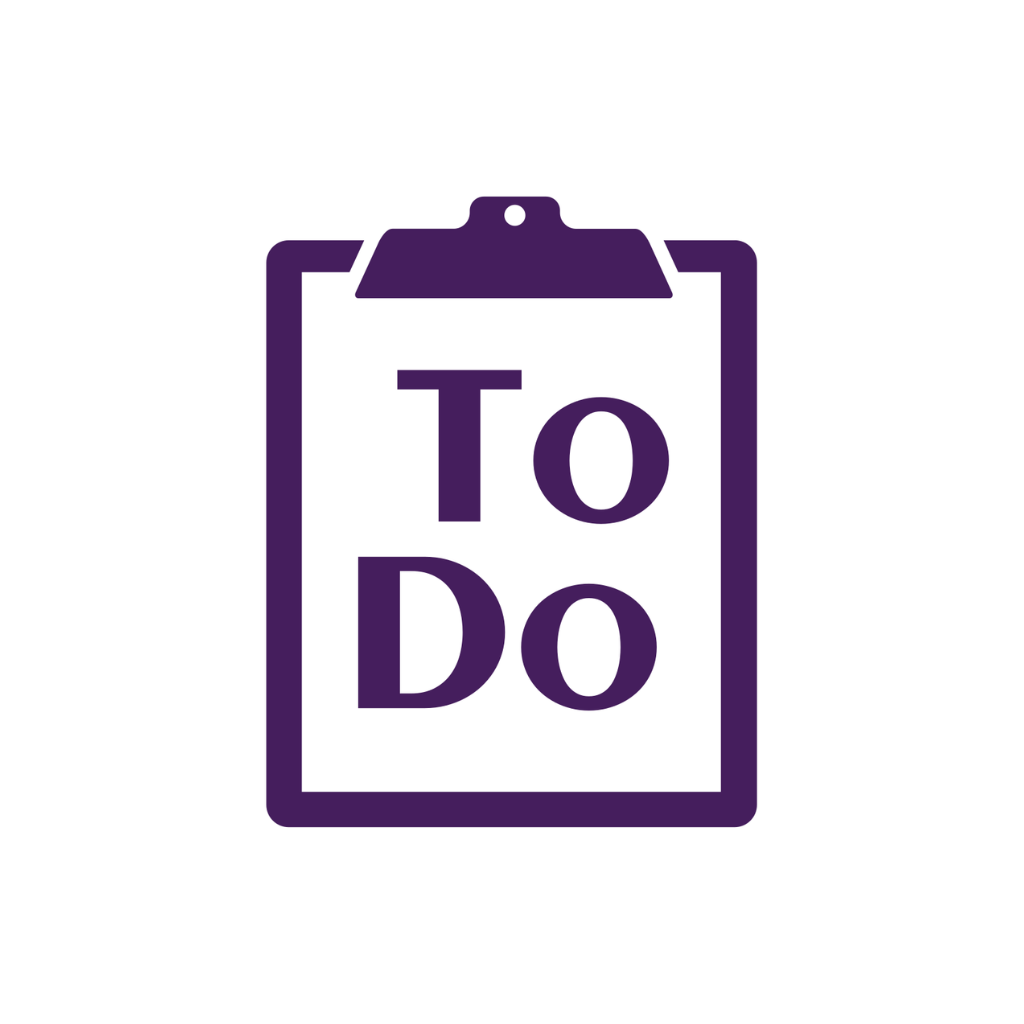
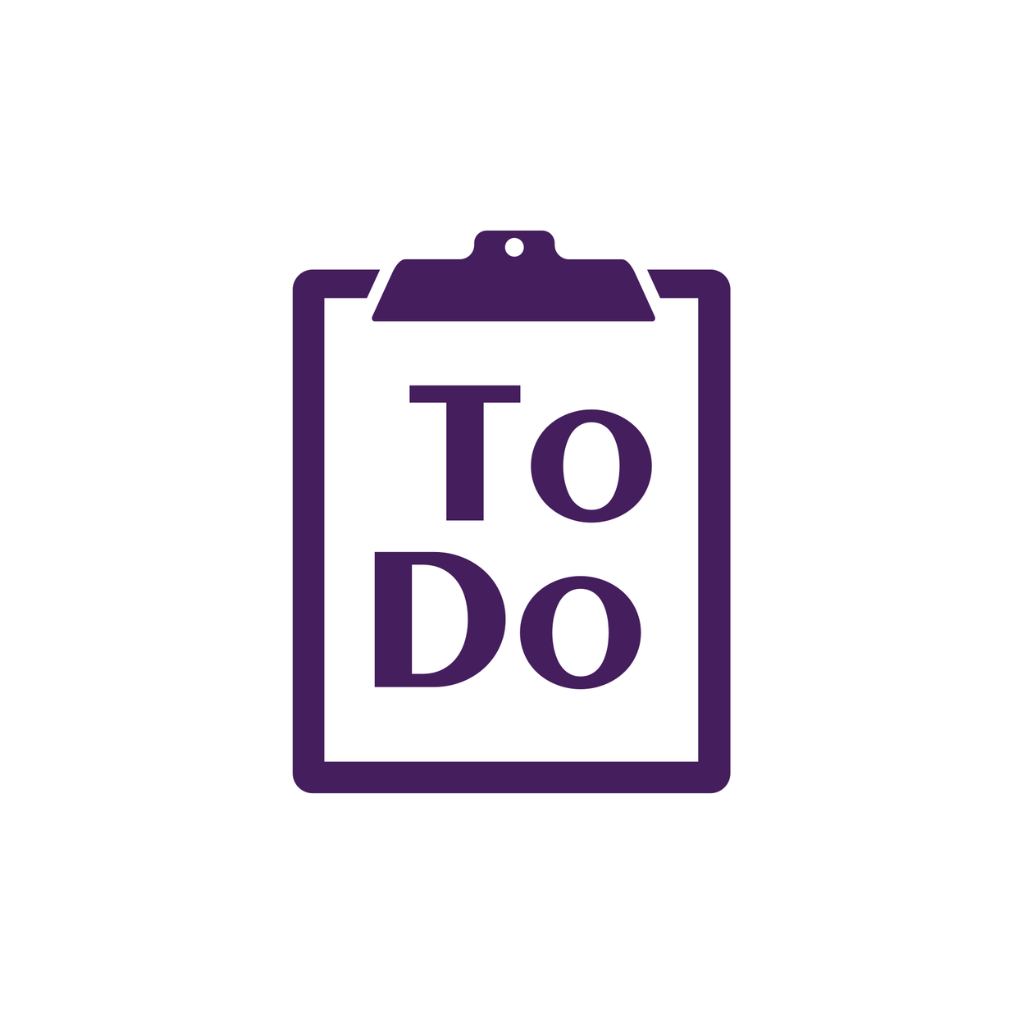
fix: pre-release stability fixes across frontend and backend

Changed region(s): [[0.25, 0.1875, 0.75, 0.8125]]

diff --git a/to-do-app-backend-node/routes/tasks.js b/to-do-app-backend-node/routes/tasks.js
@@ -74,7 +74,11 @@ router.get("/tasks/:id", authMiddleware, async function (req, res) {
   }
 });
 
-router.put("/tasks/:id", authMiddleware, async function (req, res) {
+router.put("/tasks/:id", authMiddleware, [body("title").notEmpty().withMessage("Task title is required")], async function (req, res) {
+  const errors = validationResult(req);
+  if (!errors.isEmpty()) {
+    return res.status(400).json({ errors: errors.array() });
+  }
   try {
     var task = await Prisma.tasks.findFirst({
       where: { id: parseInt(req.params.id), user_id: req.user.userId },

diff --git a/to-do-app-backend-node/index.js b/to-do-app-backend-node/index.js
@@ -3,6 +3,9 @@ var express = require("express");
 var cors = require("cors");
 var app = express();
 
+// Trust Render/reverse-proxy headers so express-rate-limit sees the real client IP.
+app.set("trust proxy", 1);
+
 // middleware
 var allowedOrigins = process.env.CORS_ORIGIN
   ? process.env.CORS_ORIGIN.split(",").map(function (o) { return o.trim(); })

diff --git a/to-do-app-backend-node/routes/auth.js b/to-do-app-backend-node/routes/auth.js
@@ -10,11 +10,10 @@ var { body, validationResult } = require("express-validator");
 
 var limiterOptions = {
   windowMs: 15 * 60 * 1000,
-  max: 10,
+  max: 15,
   message: { message: "Too many attempts. Please try again in 15 minutes." },
   standardHeaders: true,
   legacyHeaders: false,
-  validate: { trustProxy: false },
 };
 
 var loginLimiter = rateLimit(limiterOptions);

diff --git a/to-do-app-backend-node/routes/profile.js b/to-do-app-backend-node/routes/profile.js
@@ -39,6 +39,9 @@ router.put(
       });
       res.json({ name: updated.name, email: updated.email });
     } catch (error) {
+      if (error.code === "P2002") {
+        return res.status(409).json({ message: "That email address is already in use." });
+      }
       res.status(500).json({ message: "Error updating profile" });
     }
   },

diff --git a/to-do-app-frontend/src/screens/EditTaskScreen.js b/to-do-app-frontend/src/screens/EditTaskScreen.js
@@ -55,7 +55,7 @@ export default function EditTaskScreen({ route, navigation }) {
       const resolvedDate = rawDate ? new Date(year, month - 1, day) : new Date();
       setTask({
         title: response.data.title,
-        description: response.data.description,
+        description: response.data.description ?? '',
         dueDate: resolvedDate,
         category: response.data.category_id ?? '',
         completed: response.data.completed,

diff --git a/to-do-app-frontend/src/screens/ProfileScreen.js b/to-do-app-frontend/src/screens/ProfileScreen.js
@@ -123,7 +123,7 @@ export default function ProfileScreen({ navigation, userData, onLogoutSuccess })
             </View>
             <View style={styles.modalInfoRow}>
               <Text style={styles.modalInfoLabel}>Built With</Text>
-              <Text style={styles.modalInfoValue}>React Native · Laravel</Text>
+              <Text style={styles.modalInfoValue}>React Native · Node.js</Text>
             </View>
             {/* ───────────────────────────────────────────────── */}
 

diff --git a/to-do-app-frontend/src/services/api.js b/to-do-app-frontend/src/services/api.js
@@ -5,7 +5,7 @@ import { AUTH_TOKEN_KEY } from "../constants/storage";
 
 const api = axios.create({
   baseURL: API_BASE_URL,
-  timeout: 5000,
+  timeout: 15000,
 });
 
 api.interceptors.request.use(async (config) => {

diff --git a/to-do-app-frontend/App.js b/to-do-app-frontend/App.js
@@ -82,6 +82,7 @@ export default function App() {
           setIsLoggedIn(true);
         } catch (error) {
           console.error("Failed to fetch user data.", error);
+          await AsyncStorage.removeItem(AUTH_TOKEN_KEY);
           setIsLoggedIn(false);
         }
       } else {